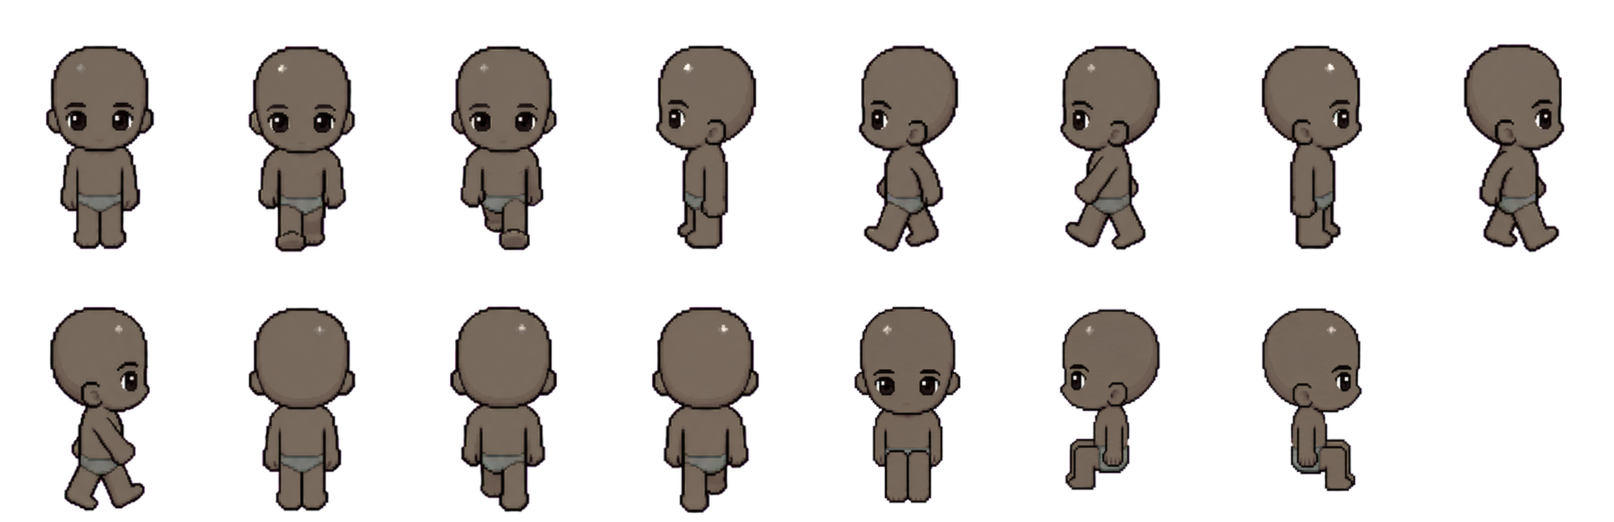
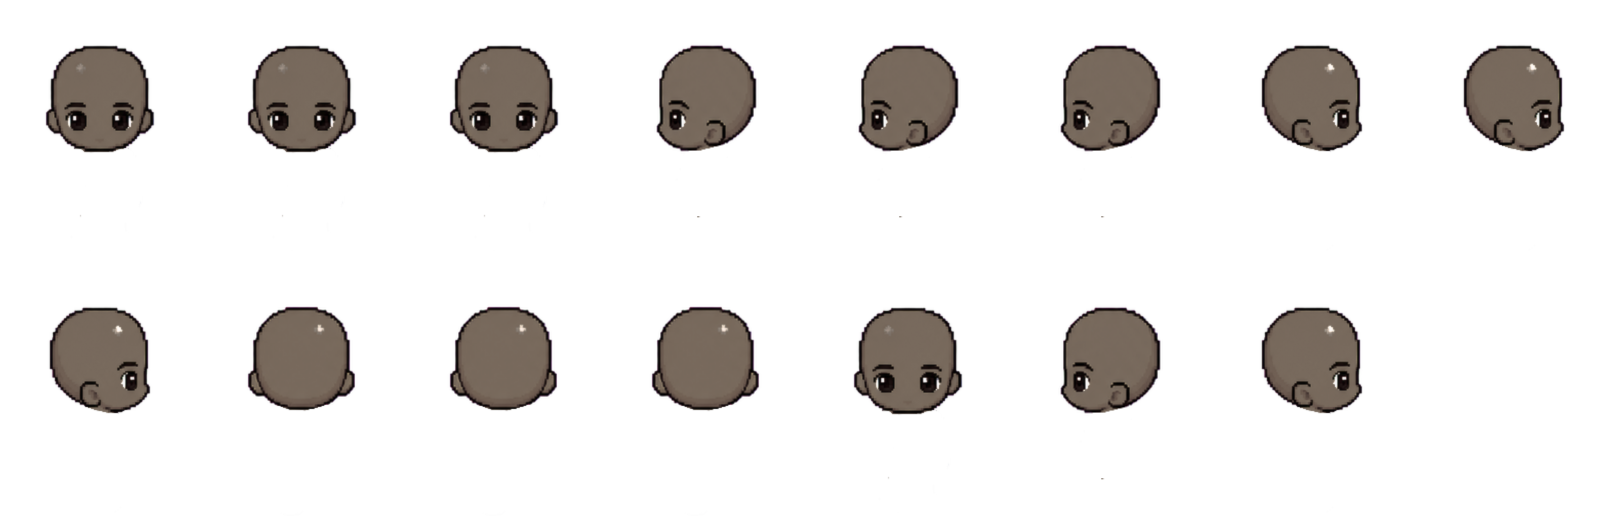
Simplifica pele-base pra só cabeça + traje aleatório no spawn
Desde que todo traje desenha o corpo inteiro (pescoço pra baixo, mão
exposta na cor certa), a camada base só precisa mais da cabeça -- o
Douglas já reduziu a arte de origem pra 4 arquivos por tom (frente/lado
esq/lado dir/costas). Reescreve scripts/syncSkinAssets.mjs pra esse
formato (a mesma cabeça é reusada nos frames de parado/andando/sentado
de cada direção -- sem mudar o layout do spritesheet, MainScene.ts não
precisa de nenhuma alteração). Também corrige o traje Linho, que nunca
tinha sincronizado de verdade (faltavam os arquivos "Frente parado"/
"Frente sentado", agora presentes) -- e com traje de verdade disponível,
o boneco passa a nascer com um traje ALEATÓRIO em vez de "Nenhum"
("Nenhum" continua escolhível à mão no editor).

Claude-Session: https://claude.ai/code/session_018xm3GX2bQC8Nuwuw2rsoPK

diff --git a/components/GameRoom.tsx b/components/GameRoom.tsx
@@ -69,6 +69,19 @@ function statusColorFor(status: string | undefined): string {
   return STATUS_DOT_COLORS[(status as ProfileStatus) ?? "online"] ?? STATUS_DOT_COLORS.online;
 }
 
+// traje inicial do boneco ao entrar na sala (ver useState(selectedOutfitId)
+// mais abaixo) -- sorteia entre os trajes DE VERDADE do catálogo,
+// excluindo "nenhum" (esse continua escolhível à mão no editor, só não
+// faz mais sentido como padrão do spawn, ver comentário lá). Sem
+// nenhum traje de verdade cadastrado ainda (catálogo vazio, só
+// "nenhum"), cai pra DEFAULT_OUTFIT_ID mesmo (hoje sempre "nenhum",
+// primeira entrada do catálogo).
+function pickRandomOutfitId(): string {
+  const real = OUTFIT_CATALOG.filter((o) => o.id !== "nenhum");
+  if (real.length === 0) return DEFAULT_OUTFIT_ID;
+  return real[Math.floor(Math.random() * real.length)].id;
+}
+
 // userId = identidade PERSISTENTE (ver getOrCreateUserId), diferente do
 // "id" de conexão (novo a cada reconexão) -- é o que o chat direto/
 // grupo usa pra saber quem é quem entre uma visita e outra (ver
@@ -685,8 +698,17 @@ export default function GameRoom() {
   const [selectedAccessoryColorId, setSelectedAccessoryColorId] = useState<string | null>(null);
   // traje (roupa do pescoço pra baixo, ver OUTFIT_CATALOG) -- sem cor
   // manual (nenhum *ColorId), a arte já muda sozinha com o tom de pele
-  // escolhido acima (ver outfitFileForSkin).
-  const [selectedOutfitId, setSelectedOutfitId] = useState(DEFAULT_OUTFIT_ID);
+  // escolhido acima (ver outfitFileForSkin). Começa num traje ALEATÓRIO
+  // (ver pickRandomOutfitId) em vez de "nenhum" -- desde que a camada
+  // base virou só cabeça (ver scripts/syncSkinAssets.mjs), um boneco
+  // sem traje ficaria sem corpo nenhum na sala; "Nenhum" continua
+  // escolhível à mão no editor, só não é mais o padrão do spawn. Função
+  // lazy (não `useState(DEFAULT_OUTFIT_ID)`) pra sortear só uma vez na
+  // hora de montar, não a cada render -- seguro mesmo sem estar dentro
+  // de um useEffect porque este componente é sempre client-only (ver
+  // `dynamic(..., { ssr: false })` em app/page.tsx), sem risco de
+  // hydration mismatch entre servidor/cliente.
+  const [selectedOutfitId, setSelectedOutfitId] = useState(pickRandomOutfitId);
   // categoria ativa dentro do editor (Cabelo/Acessório/Barba/...) -- só
   // controla o que aparece NA LISTA, o card em si não muda de tamanho
   // trocando de aba (ver .profile-edit-scroll, rolagem interna).

diff --git a/game/outfitCatalog.generated.ts b/game/outfitCatalog.generated.ts
@@ -4,4 +4,14 @@
 
 import type { OutfitOption } from "./customization";
 
-export const GENERATED_OUTFIT_CATALOG: OutfitOption[] = [];
+export const GENERATED_OUTFIT_CATALOG: OutfitOption[] = [
+  {
+    "id": "linho",
+    "label": "Linho",
+    "bySkin": {
+      "branco": "traje_linho_branco.png",
+      "negro": "traje_linho_negro.png",
+      "pardo": "traje_linho_pardo.png"
+    }
+  }
+];
